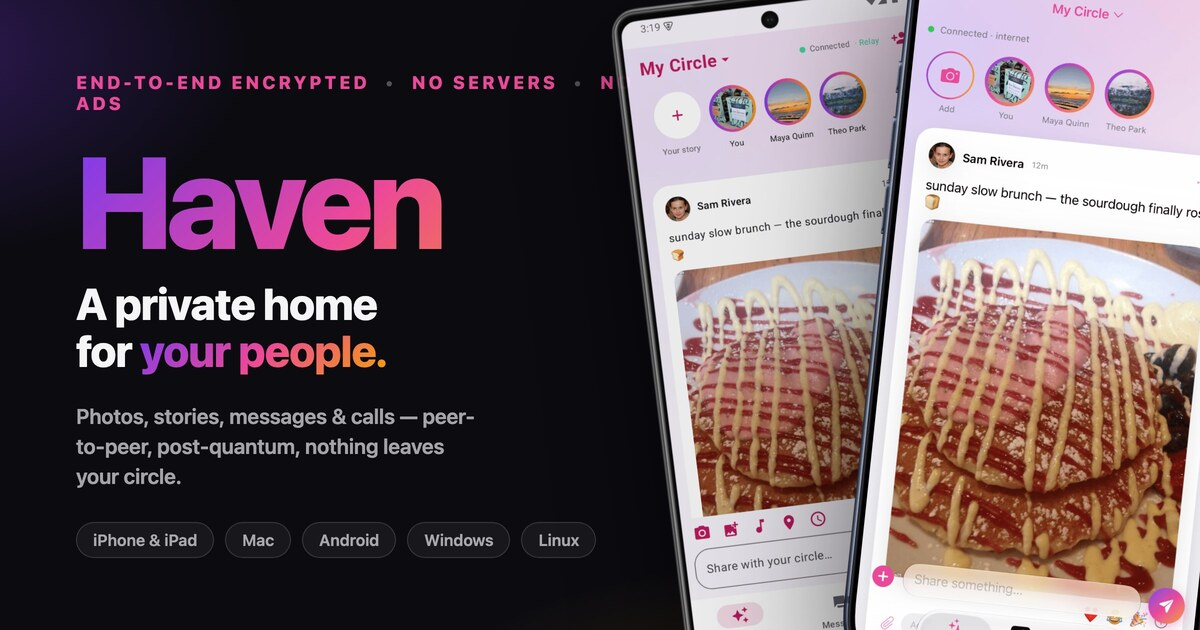
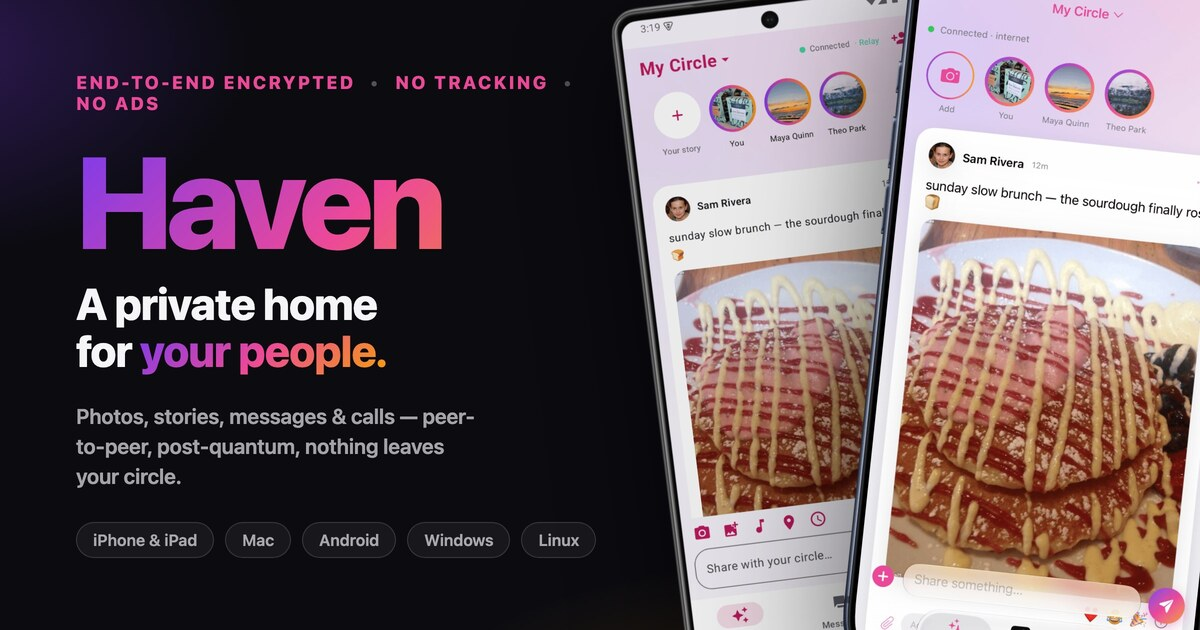
OG poster: "No servers" was a lie — say "No tracking"; stop "No ads" wrapping
"No servers" is false: Haven runs optional user-hostable relays (servers) and a blind Cloudflare
push Worker. Replaced with "No tracking", which is unambiguously true. Also wrapped each eyebrow
phrase in nowrap so "No ads" can't break mid-phrase (it was rendering as "N / ADS").

Re-rendered og-image.jpg at 1200x630.

Changed region(s): [[0.0617, 0.1206, 0.4625, 0.181], [0.4933, 0.1206, 0.5242, 0.1508]]

diff --git a/web/og-poster.html b/web/og-poster.html
@@ -23,9 +23,11 @@
   }
   .wrap{display:flex;height:100%;align-items:center}
   .left{flex:0 0 660px;padding:0 0 0 76px}
-  .eyebrow{font-size:18px;font-weight:800;letter-spacing:.18em;text-transform:uppercase;
+  .eyebrow{font-size:18px;font-weight:800;letter-spacing:.14em;text-transform:uppercase;
     color:var(--pink);margin-bottom:24px}
   .eyebrow .dot{color:rgba(245,245,247,.30);margin:0 8px}
+  /* Keep each phrase whole so "No ads" can never break across a line. */
+  .eyebrow .nb{white-space:nowrap}
   .wordmark{font-size:130px;font-weight:850;letter-spacing:-.04em;line-height:.95;
     background:var(--brand);-webkit-background-clip:text;background-clip:text;color:transparent}
   .tagline{font-size:44px;font-weight:800;letter-spacing:-.02em;line-height:1.08;margin-top:18px;color:var(--text)}
@@ -46,7 +48,7 @@
 <body>
   <div class="wrap">
     <div class="left">
-      <div class="eyebrow">End-to-end encrypted <span class="dot">•</span> No servers <span class="dot">•</span> No ads</div>
+      <div class="eyebrow"><span class="nb">End-to-end encrypted</span> <span class="dot">•</span> <span class="nb">No tracking</span> <span class="dot">•</span> <span class="nb">No ads</span></div>
       <div class="wordmark">Haven</div>
       <div class="tagline">A private home<br/>for <span class="g">your people.</span></div>
       <div class="sub">Photos, stories, messages &amp; calls — peer-to-peer, post-quantum, nothing leaves your circle.</div>
